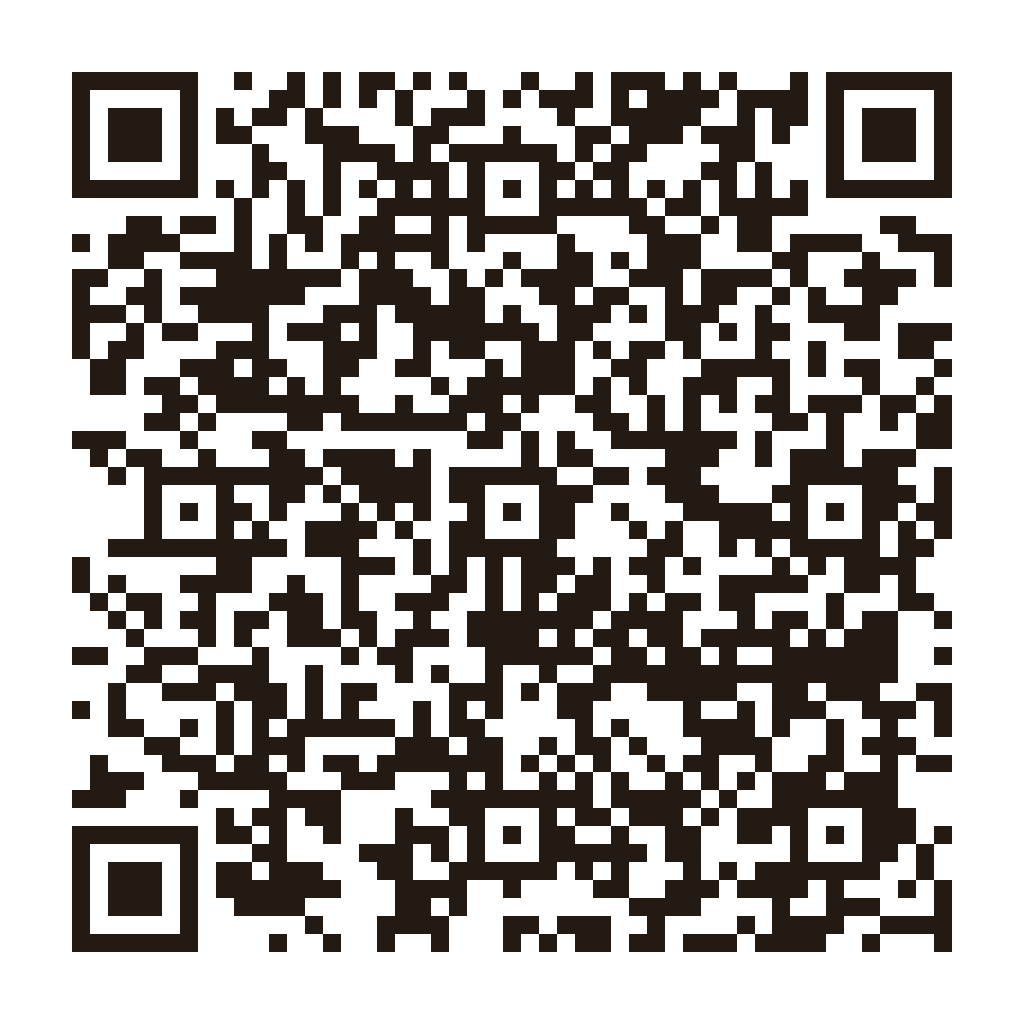
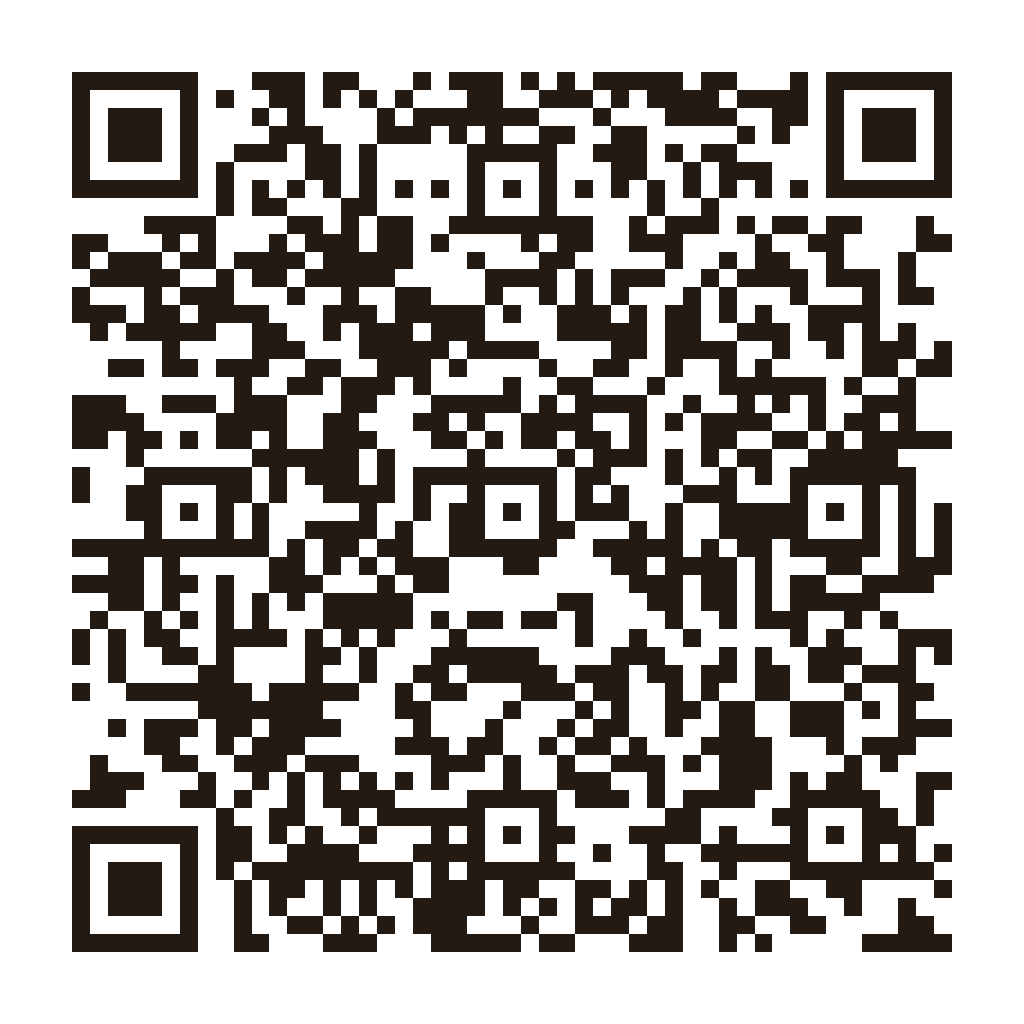
style: scale landing content to fill viewport without scrolling

diff --git a/assets/css/style.css b/assets/css/style.css
@@ -1,4 +1,4 @@
-/* Landing page — warm editorial cafe menu (compact, no-scroll) */
+/* Landing page — warm editorial cafe menu (fills the screen, no scroll) */
 :root {
   --ink: #241a14;
   --ink-soft: #514136;
@@ -19,7 +19,8 @@ html { scroll-behavior: smooth; }
 body {
   margin: 0;
   min-width: 320px;
-  min-height: 100dvh;
+  height: 100dvh;
+  overflow: hidden;
   color: var(--ink);
   font-family: var(--font-body);
   font-size: 16px;
@@ -50,16 +51,21 @@ a { color: inherit; }
 }
 
 .page-wrap {
-  width: min(900px, 100% - clamp(1rem, 5vw, 3rem));
-  min-height: 100dvh;
+  width: min(960px, 100% - clamp(1rem, 5vw, 3rem));
+  height: 100dvh;
   margin-inline: auto;
-  padding-block: clamp(0.75rem, 2vh, 1.25rem);
+  padding-block: clamp(0.75rem, 2.5vh, 1.5rem);
   display: flex;
   flex-direction: column;
-  justify-content: center;
 }
 
-main { display: flex; flex-direction: column; gap: clamp(0.5rem, 1.5vh, 0.9rem); }
+main {
+  flex: 1;
+  min-height: 0;
+  display: flex;
+  flex-direction: column;
+  gap: clamp(0.5rem, 1.8vh, 1.1rem);
+}
 
 /* Section heading */
 .section-head {
@@ -67,7 +73,7 @@ main { display: flex; flex-direction: column; gap: clamp(0.5rem, 1.5vh, 0.9rem);
   align-items: flex-end;
   justify-content: space-between;
   gap: 1rem;
-  padding-bottom: 0.45rem;
+  padding-bottom: clamp(0.4rem, 1.2vh, 0.8rem);
   border-bottom: 2px solid var(--ink);
   animation: rise 0.6s ease both;
 }
@@ -75,7 +81,7 @@ main { display: flex; flex-direction: column; gap: clamp(0.5rem, 1.5vh, 0.9rem);
 .section-head h2 {
   margin: 0;
   font-family: var(--font-display);
-  font-size: clamp(1.75rem, 4vw, 2.8rem);
+  font-size: clamp(2rem, 3.2vh + 1.4vw, 3.4rem);
   font-weight: 700;
   line-height: 1.15;
 }
@@ -84,15 +90,17 @@ main { display: flex; flex-direction: column; gap: clamp(0.5rem, 1.5vh, 0.9rem);
   margin: 0;
   color: var(--clay);
   font-family: var(--font-display);
-  font-size: clamp(0.95rem, 2vw, 1.2rem);
+  font-size: clamp(1.05rem, 2.2vh, 1.5rem);
 }
 
 /* Card */
-.menu-grid { margin: 0; animation: rise 0.7s 0.08s ease both; }
+.menu-grid { flex: 1; min-height: 0; display: flex; animation: rise 0.7s 0.08s ease both; }
 
 .menu-card {
+  flex: 1;
+  min-height: 0;
   display: grid;
-  grid-template-columns: minmax(180px, 36%) minmax(0, 1fr);
+  grid-template-columns: minmax(190px, 36%) minmax(0, 1fr);
   background: var(--card);
   border: 1px solid var(--line);
   border-radius: 3px;
@@ -104,7 +112,7 @@ main { display: flex; flex-direction: column; gap: clamp(0.5rem, 1.5vh, 0.9rem);
 
 .card-media {
   position: relative;
-  min-height: 210px;
+  min-height: 0;
   overflow: hidden;
   background: var(--paper-deep);
   border-inline-end: 1px solid var(--line);
@@ -124,10 +132,10 @@ main { display: flex; flex-direction: column; gap: clamp(0.5rem, 1.5vh, 0.9rem);
 
 .card-index {
   position: absolute;
-  inset-inline-start: 0.8rem;
+  inset-inline-start: 1rem;
   bottom: -0.35rem;
   font-family: var(--font-display);
-  font-size: 3.4rem;
+  font-size: clamp(2.6rem, 6vh, 4.4rem);
   line-height: 1;
   color: var(--card);
   text-shadow: 0 2px 0 var(--line);
@@ -135,15 +143,17 @@ main { display: flex; flex-direction: column; gap: clamp(0.5rem, 1.5vh, 0.9rem);
 }
 
 .card-body {
-  padding: clamp(0.75rem, 2vw, 1.2rem) clamp(0.85rem, 2.4vw, 1.4rem);
+  min-height: 0;
+  padding: clamp(0.9rem, 2.6vh, 1.8rem) clamp(1rem, 3vw, 1.8rem);
   display: flex;
   flex-direction: column;
-  gap: 0.25rem;
+  justify-content: center;
+  gap: clamp(0.35rem, 1.4vh, 0.9rem);
 }
 
 .card-kicker {
   margin: 0;
-  font-size: 0.66rem;
+  font-size: clamp(0.68rem, 1.5vh, 0.82rem);
   color: var(--olive);
   font-weight: 700;
   letter-spacing: 0.1em;
@@ -152,24 +162,28 @@ main { display: flex; flex-direction: column; gap: clamp(0.5rem, 1.5vh, 0.9rem);
 .card-body h3 {
   margin: 0;
   font-family: var(--font-display);
-  font-size: clamp(1.4rem, 3vw, 2rem);
+  font-size: clamp(1.5rem, 2.8vh + 0.8vw, 2.5rem);
   line-height: 1.15;
 }
 
-.card-meta { margin: 0; color: var(--ink-soft); font-size: clamp(0.75rem, 1.5vw, 0.85rem); }
+.card-meta {
+  margin: 0;
+  color: var(--ink-soft);
+  font-size: clamp(0.8rem, 1.7vh, 0.98rem);
+}
 
-.card-actions { display: flex; flex-wrap: wrap; gap: 0.5rem; margin-top: 0.35rem; }
+.card-actions { display: flex; flex-wrap: wrap; gap: 0.6rem; margin-top: clamp(0.2rem, 1vh, 0.7rem); }
 
 .btn {
   display: inline-flex;
   align-items: center;
   justify-content: center;
-  gap: 0.4rem;
-  min-height: 40px;
-  padding: 0.35rem 0.9rem;
+  gap: 0.5rem;
+  min-height: clamp(42px, 5.6vh, 56px);
+  padding: 0.4rem 1.1rem;
   border-radius: 2px;
   font: inherit;
-  font-size: 0.84rem;
+  font-size: clamp(0.85rem, 1.7vh, 1rem);
   font-weight: 700;
   text-decoration: none;
   transition: background 0.2s ease, color 0.2s ease, transform 0.2s ease;
@@ -180,30 +194,30 @@ main { display: flex; flex-direction: column; gap: clamp(0.5rem, 1.5vh, 0.9rem);
 .btn-primary:hover { background: var(--clay); }
 .btn-quiet { border: 1px solid var(--line); color: var(--ink); background: transparent; }
 .btn-quiet:hover { background: var(--paper-deep); }
-.btn-arrow { font-size: 1.05rem; line-height: 1; }
+.btn-arrow { font-size: 1.15rem; line-height: 1; }
 
 .qr-block {
   display: flex;
   align-items: center;
-  gap: 0.7rem;
-  margin-top: auto;
-  padding-top: 0.55rem;
+  gap: 0.9rem;
+  margin-top: clamp(0.3rem, 1.4vh, 0.9rem);
+  padding-top: clamp(0.5rem, 1.6vh, 1rem);
   border-top: 1px dashed var(--line);
 }
 
 .qr-block img {
-  width: 58px;
-  height: 58px;
+  width: clamp(64px, 9vh, 100px);
+  height: clamp(64px, 9vh, 100px);
   flex: none;
-  padding: 3px;
+  padding: 4px;
   background: #fff;
   border: 1px solid var(--line);
   image-rendering: pixelated;
 }
 
-.qr-copy { display: flex; flex-direction: column; gap: 0.1rem; }
-.qr-copy strong { font-size: 0.82rem; }
-.qr-copy span { color: var(--ink-soft); font-size: 0.7rem; line-height: 1.45; }
+.qr-copy { display: flex; flex-direction: column; gap: 0.15rem; }
+.qr-copy strong { font-size: clamp(0.85rem, 1.8vh, 1.05rem); }
+.qr-copy span { color: var(--ink-soft); font-size: clamp(0.72rem, 1.5vh, 0.86rem); line-height: 1.5; }
 
 @keyframes rise {
   from { opacity: 0; transform: translateY(12px); }
@@ -213,24 +227,27 @@ main { display: flex; flex-direction: column; gap: clamp(0.5rem, 1.5vh, 0.9rem);
 @media (max-width: 520px) {
   .menu-card { display: block; }
   .card-media {
-    min-height: 0;
-    height: clamp(90px, 15vh, 130px);
+    height: clamp(100px, 22vh, 190px);
     border-inline-end: 0;
     border-bottom: 1px solid var(--line);
   }
-  .card-index { font-size: 2.6rem; bottom: -0.3rem; }
-  .card-body { padding: 0.6rem 0.75rem; }
-  .card-body h3 { font-size: 1.25rem; }
-  .btn { min-height: 34px; font-size: 0.76rem; padding: 0.3rem 0.65rem; }
-  .qr-block img { width: 50px; height: 50px; }
-  .qr-copy span { font-size: 0.66rem; }
+  .card-body { min-height: calc(100% - clamp(100px, 22vh, 190px)); padding: clamp(0.8rem, 2.2vh, 1.2rem); }
+  .card-body h3 { font-size: clamp(1.4rem, 4vh, 1.9rem); }
+  .btn { min-height: 44px; padding-inline: 0.9rem; }
+  .qr-block img { width: 64px; height: 64px; }
 }
 
 @media (max-height: 620px) {
-  .card-media { height: 72px; min-height: 0; }
-  .card-index { font-size: 2.1rem; }
-  .qr-block { padding-top: 0.35rem; }
-  .qr-block img { width: 46px; height: 46px; }
+  .card-media { height: clamp(74px, 18vh, 110px); }
+  .card-body { min-height: calc(100% - clamp(74px, 18vh, 110px)); }
+  .card-index { font-size: 2.4rem; }
+  .qr-block img { width: 54px; height: 54px; }
+  .qr-copy span { display: none; }
+}
+
+@media (max-height: 520px) {
+  body { height: auto; min-height: 100dvh; overflow: auto; }
+  .page-wrap { height: auto; min-height: 100dvh; }
 }
 
 @media (prefers-reduced-motion: reduce) {
@@ -239,8 +256,8 @@ main { display: flex; flex-direction: column; gap: clamp(0.5rem, 1.5vh, 0.9rem);
 }
 
 @media print {
-  body { background: #fff; }
+  body { height: auto; overflow: visible; background: #fff; }
   body::before, .card-actions { display: none; }
-  .page-wrap { width: 100%; }
+  .page-wrap { width: 100%; height: auto; }
   .menu-card { break-inside: avoid; box-shadow: none; }
 }

diff --git a/README.md b/README.md
@@ -10,7 +10,7 @@
 | Dobamina | https://mahmoudazmy2050-ui.github.io/cafe-Resturant/dobamina/ |
 | Kalamantina | https://mahmoudazmy2050-ui.github.io/cafe-Resturant/kalamantina/ |
 
-> رموز QR المطبوعة تشير إلى الرابطين نفسهما مع `?v=3` لتفادي نسخة المتصفح القديمة المحفوظة (Cache-Control: max-age=600). الرابط بدون البارامتر يعمل بشكل طبيعي بعد انتهاء مدة الحفظ.
+> رموز QR المطبوعة تشير إلى الرابطين نفسهما مع `?v=4` لتفادي نسخة المتصفح القديمة المحفوظة (Cache-Control: max-age=600). الرابط بدون البارامتر يعمل بشكل طبيعي بعد انتهاء مدة الحفظ.
 
 ## تفعيل النشر
 
